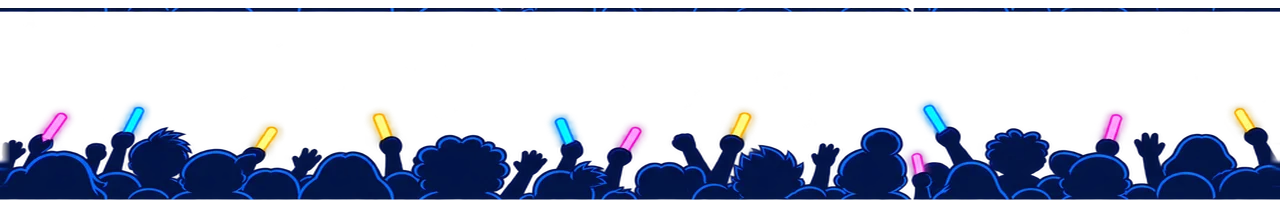
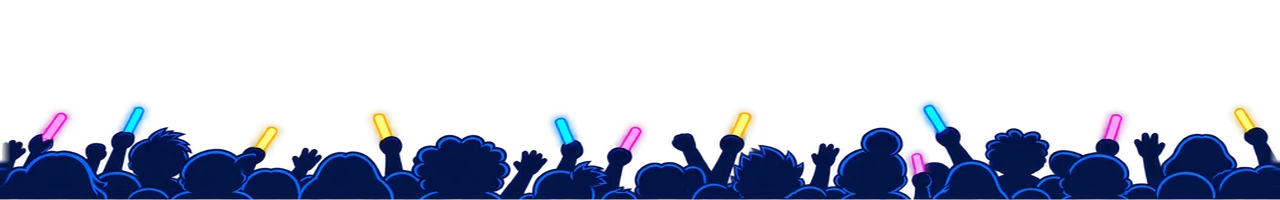
Neon Encore: ingen blinkende streg i publikum, DJ i halv størrelse, farvede projektører bag scenen

Changed region(s): [[0.0, 0.03, 1.0, 0.06]]

diff --git a/webapp/index.html b/webapp/index.html
@@ -19,10 +19,10 @@
     <meta name="apple-mobile-web-app-status-bar-style" content="black-translucent">
     <meta name="apple-mobile-web-app-title" content="Bert The Bird">
     <title>Bert The Bird – flyvespil og præcisionsverdener</title>
-    <link rel="manifest" href="manifest.webmanifest?v=worlds-relay-64">
+    <link rel="manifest" href="manifest.webmanifest?v=worlds-relay-65">
     <link rel="apple-touch-icon" href="icons/bert-192.png">
     <link rel="icon" type="image/png" sizes="192x192" href="icons/bert-192.png">
-    <link rel="stylesheet" href="style.css?v=worlds-relay-64">
+    <link rel="stylesheet" href="style.css?v=worlds-relay-65">
 </head>
 <body>
     <main id="game-shell" aria-label="Bert The Bird">
@@ -366,34 +366,34 @@
 
         <div id="app-status" class="app-status" role="status" aria-live="polite"></div>
     </main>
-    <script src="bert-i18n.js?v=worlds-relay-64"></script>
-    <script src="lang-en.js?v=worlds-relay-64"></script>
-    <script src="lang-nb.js?v=worlds-relay-64"></script>
-    <script src="lang-sv.js?v=worlds-relay-64"></script>
-    <script src="lang-de.js?v=worlds-relay-64"></script>
-    <script src="lang-es.js?v=worlds-relay-64"></script>
-    <script src="lang-fr.js?v=worlds-relay-64"></script>
-    <script src="lang-pt.js?v=worlds-relay-64"></script>
+    <script src="bert-i18n.js?v=worlds-relay-65"></script>
+    <script src="lang-en.js?v=worlds-relay-65"></script>
+    <script src="lang-nb.js?v=worlds-relay-65"></script>
+    <script src="lang-sv.js?v=worlds-relay-65"></script>
+    <script src="lang-de.js?v=worlds-relay-65"></script>
+    <script src="lang-es.js?v=worlds-relay-65"></script>
+    <script src="lang-fr.js?v=worlds-relay-65"></script>
+    <script src="lang-pt.js?v=worlds-relay-65"></script>
     <script>window.BertI18n.apply();</script>
-    <script src="app-shell.js?v=worlds-relay-64"></script>
-    <script src="unity-collision.js?v=worlds-relay-64"></script>
-    <script src="bert-physics.js?v=worlds-relay-64"></script>
-    <script src="bert-progression.js?v=worlds-relay-64"></script>
-    <script src="bert-tunnel.js?v=worlds-relay-64"></script>
-    <script src="bert-edm.js?v=worlds-relay-64"></script>
-    <script src="bert-bird-run.js?v=worlds-relay-64"></script>
-    <script src="bert-stormline.js?v=worlds-relay-64"></script>
-    <script src="bert-world-mastery.js?v=worlds-relay-64"></script>
-    <script src="bert-sky-relay.js?v=worlds-relay-64"></script>
-    <script src="bert-event-powerups.js?v=worlds-relay-64"></script>
-    <script src="bert-collectible-motion.js?v=worlds-relay-64"></script>
-    <script src="bert-haptics.js?v=worlds-relay-64"></script>
-    <script src="bert-hero-store.js?v=worlds-relay-64"></script>
-    <script src="bert-meta.js?v=worlds-relay-64"></script>
-    <script src="bert-social.js?v=worlds-relay-64"></script>
-    <script src="bert-focus-audio.js?v=worlds-relay-64"></script>
-    <script src="bert-star-audio.js?v=worlds-relay-64"></script>
-    <script src="bert-adventure.js?v=worlds-relay-64"></script>
-    <script src="unity-faithful.js?v=worlds-relay-64"></script>
+    <script src="app-shell.js?v=worlds-relay-65"></script>
+    <script src="unity-collision.js?v=worlds-relay-65"></script>
+    <script src="bert-physics.js?v=worlds-relay-65"></script>
+    <script src="bert-progression.js?v=worlds-relay-65"></script>
+    <script src="bert-tunnel.js?v=worlds-relay-65"></script>
+    <script src="bert-edm.js?v=worlds-relay-65"></script>
+    <script src="bert-bird-run.js?v=worlds-relay-65"></script>
+    <script src="bert-stormline.js?v=worlds-relay-65"></script>
+    <script src="bert-world-mastery.js?v=worlds-relay-65"></script>
+    <script src="bert-sky-relay.js?v=worlds-relay-65"></script>
+    <script src="bert-event-powerups.js?v=worlds-relay-65"></script>
+    <script src="bert-collectible-motion.js?v=worlds-relay-65"></script>
+    <script src="bert-haptics.js?v=worlds-relay-65"></script>
+    <script src="bert-hero-store.js?v=worlds-relay-65"></script>
+    <script src="bert-meta.js?v=worlds-relay-65"></script>
+    <script src="bert-social.js?v=worlds-relay-65"></script>
+    <script src="bert-focus-audio.js?v=worlds-relay-65"></script>
+    <script src="bert-star-audio.js?v=worlds-relay-65"></script>
+    <script src="bert-adventure.js?v=worlds-relay-65"></script>
+    <script src="unity-faithful.js?v=worlds-relay-65"></script>
 </body>
 </html>

diff --git a/webapp/service-worker.js b/webapp/service-worker.js
@@ -1,4 +1,4 @@
-const CACHE_VERSION = 'bert-the-bird-worlds-relay-64';
+const CACHE_VERSION = 'bert-the-bird-worlds-relay-65';
 
 const frames = (folder, prefix, count) => Array.from(
     { length: count },
@@ -29,36 +29,36 @@ const HAPPY_PIPE_ASSETS = HAPPY_PIPE_COLORS.flatMap((color) => [
 const APP_SHELL = [
     './',
     './index.html',
-    './style.css?v=worlds-relay-64',
-    './bert-i18n.js?v=worlds-relay-64',
-    './lang-en.js?v=worlds-relay-64',
-    './lang-nb.js?v=worlds-relay-64',
-    './lang-sv.js?v=worlds-relay-64',
-    './lang-de.js?v=worlds-relay-64',
-    './lang-es.js?v=worlds-relay-64',
-    './lang-fr.js?v=worlds-relay-64',
-    './lang-pt.js?v=worlds-relay-64',
-    './app-shell.js?v=worlds-relay-64',
-    './unity-collision.js?v=worlds-relay-64',
-    './bert-physics.js?v=worlds-relay-64',
-    './bert-progression.js?v=worlds-relay-64',
-    './bert-tunnel.js?v=worlds-relay-64',
-    './bert-edm.js?v=worlds-relay-64',
-    './bert-bird-run.js?v=worlds-relay-64',
-    './bert-stormline.js?v=worlds-relay-64',
-    './bert-world-mastery.js?v=worlds-relay-64',
-    './bert-sky-relay.js?v=worlds-relay-64',
-    './bert-adventure.js?v=worlds-relay-64',
-    './bert-event-powerups.js?v=worlds-relay-64',
-    './bert-collectible-motion.js?v=worlds-relay-64',
-    './bert-haptics.js?v=worlds-relay-64',
-    './bert-hero-store.js?v=worlds-relay-64',
-    './bert-meta.js?v=worlds-relay-64',
-    './bert-social.js?v=worlds-relay-64',
-    './bert-focus-audio.js?v=worlds-relay-64',
-    './bert-star-audio.js?v=worlds-relay-64',
-    './unity-faithful.js?v=worlds-relay-64',
-    './manifest.webmanifest?v=worlds-relay-64',
+    './style.css?v=worlds-relay-65',
+    './bert-i18n.js?v=worlds-relay-65',
+    './lang-en.js?v=worlds-relay-65',
+    './lang-nb.js?v=worlds-relay-65',
+    './lang-sv.js?v=worlds-relay-65',
+    './lang-de.js?v=worlds-relay-65',
+    './lang-es.js?v=worlds-relay-65',
+    './lang-fr.js?v=worlds-relay-65',
+    './lang-pt.js?v=worlds-relay-65',
+    './app-shell.js?v=worlds-relay-65',
+    './unity-collision.js?v=worlds-relay-65',
+    './bert-physics.js?v=worlds-relay-65',
+    './bert-progression.js?v=worlds-relay-65',
+    './bert-tunnel.js?v=worlds-relay-65',
+    './bert-edm.js?v=worlds-relay-65',
+    './bert-bird-run.js?v=worlds-relay-65',
+    './bert-stormline.js?v=worlds-relay-65',
+    './bert-world-mastery.js?v=worlds-relay-65',
+    './bert-sky-relay.js?v=worlds-relay-65',
+    './bert-adventure.js?v=worlds-relay-65',
+    './bert-event-powerups.js?v=worlds-relay-65',
+    './bert-collectible-motion.js?v=worlds-relay-65',
+    './bert-haptics.js?v=worlds-relay-65',
+    './bert-hero-store.js?v=worlds-relay-65',
+    './bert-meta.js?v=worlds-relay-65',
+    './bert-social.js?v=worlds-relay-65',
+    './bert-focus-audio.js?v=worlds-relay-65',
+    './bert-star-audio.js?v=worlds-relay-65',
+    './unity-faithful.js?v=worlds-relay-65',
+    './manifest.webmanifest?v=worlds-relay-65',
     './icons/bert-192.png',
     './icons/bert-512.png',
     './assets/unity/fonts/bert-display.woff2',

diff --git a/webapp/unity-faithful.js b/webapp/unity-faithful.js
@@ -16,7 +16,7 @@
     const BASE_WIDTH = 1280;
     const MAX_ASPECT = 21 / 9;
     const BASE_BIRD_X = 185;
-    const BUILD_VERSION = 'worlds-relay-64';
+    const BUILD_VERSION = 'worlds-relay-65';
     const FLAPPY_GRAVITY = 1750;
     const BIRD = { x: 185, width: 124, height: 113 };
     const FIXED_STEP = 1 / 60;
@@ -3729,6 +3729,25 @@
         }
         ctx.drawImage(assets.edmStage, 0, 0, VIEW.width, VIEW.height);
         if (assets.v2EdmStage?.naturalWidth) {
+            // Festival searchlights behind the stage: slow coloured sweeps that bring back
+            // the busy concert backdrop of the old design without covering play.
+            if (!prefersReducedMotion() && BertMeta.settingEnabled('lights')) {
+                ctx.save();
+                ctx.globalCompositeOperation = 'lighter';
+                [['rgba(255, 90, 210, .26)', 420, 0.7], ['rgba(90, 230, 255, .26)', 860, -0.6], ['rgba(255, 210, 90, .2)', 640, 0.45]].forEach(([color, baseX, speed], index) => {
+                    const angle = Math.sin(state.worldTime * speed + index * 2) * 0.55;
+                    ctx.save();
+                    ctx.translate(baseX, 640);
+                    ctx.rotate(angle);
+                    const beam = ctx.createLinearGradient(0, 0, 0, -620);
+                    beam.addColorStop(0, color);
+                    beam.addColorStop(1, 'rgba(0,0,0,0)');
+                    ctx.fillStyle = beam;
+                    ctx.beginPath(); ctx.moveTo(-18, 0); ctx.lineTo(18, 0); ctx.lineTo(120, -640); ctx.lineTo(-120, -640); ctx.closePath(); ctx.fill();
+                    ctx.restore();
+                });
+                ctx.restore();
+            }
             // Smaller and further back, so the stage sets the scene without crowding play.
             // The DJ stands behind the booth (booth top ≈ y 507 on screen): drawn first,
             // so the booth hides the lower body. Pose follows the beat; both wings up on the drop.
@@ -3738,7 +3757,8 @@
             if (dj?.naturalWidth) {
                 const bob = prefersReducedMotion() ? 0 : Math.abs(Math.sin(state.worldTime * Math.PI * 2.2)) * 5;
                 // Stage 720×225 standing on the crowd line (base ≈ y 705); booth top ≈ y 604.
-                ctx.drawImage(dj, 558, 480 - bob, 164, 164);
+                // DJ at half the previous size (feedback), still standing behind the booth.
+                ctx.drawImage(dj, 599, 550 - bob * 0.5, 82, 82);
             }
             ctx.drawImage(assets.v2EdmStage, 280, 480, 720, 225);
         } else {

diff --git a/webapp/app-shell.js b/webapp/app-shell.js
@@ -10,7 +10,7 @@
     const installGuideText = document.getElementById('install-guide-text');
     const closeInstallGuide = document.getElementById('close-install-guide');
     const statusToast = document.getElementById('app-status');
-    const ACTIVE_BUILD = 'worlds-relay-64';
+    const ACTIVE_BUILD = 'worlds-relay-65';
     const IS_QA = new URLSearchParams(window.location.search).has('qa');
     let deferredInstallPrompt = null;
     let toastTimer = 0;

diff --git a/tests/offline_resilience_acceptance.py b/tests/offline_resilience_acceptance.py
@@ -11,7 +11,7 @@ from playwright.async_api import async_playwright
 
 ROOT = Path(__file__).resolve().parents[1]
 OUTPUT = ROOT.parent / 'qa-offline-resilience'
-BUILD = 'worlds-relay-64'
+BUILD = 'worlds-relay-65'
 
 
 class GameHandler(SimpleHTTPRequestHandler):
@@ -62,11 +62,11 @@ async def browser_case(browser_type, base, width, height, server):
         await page.wait_for_function('window.BertApp?.offlineReady()', timeout=45000)
         assert await page.evaluate('navigator.serviceWorker.controller !== null')
         cache = await page.evaluate('''async () => {
-            const entries = await caches.open('bert-the-bird-worlds-relay-64');
+            const entries = await caches.open('bert-the-bird-worlds-relay-65');
             return {html: !!(await entries.match('./index.html')),
-                    game: !!(await entries.match('./unity-faithful.js?v=worlds-relay-64')),
-                    relay: !!(await entries.match('./bert-sky-relay.js?v=worlds-relay-64')),
-                    mastery: !!(await entries.match('./bert-world-mastery.js?v=worlds-relay-64')),
+                    game: !!(await entries.match('./unity-faithful.js?v=worlds-relay-65')),
+                    relay: !!(await entries.match('./bert-sky-relay.js?v=worlds-relay-65')),
+                    mastery: !!(await entries.match('./bert-world-mastery.js?v=worlds-relay-65')),
                     gate: !!(await entries.match('./assets/sky-relay/flight-gate-play.webp')),
                     front: !!(await entries.match('./assets/sky-relay/flight-gate-foreground-play.webp')),
                     bell: !!(await entries.match('./assets/sky-relay/wind-chime-target-play.webp'))};

diff --git a/tests/edm_crowd_bursts_acceptance.py b/tests/edm_crowd_bursts_acceptance.py
@@ -24,7 +24,7 @@ async def run_phone(browser, port, width, height):
     posts = []
     page.on('pageerror', lambda error: errors.append(str(error)))
     page.on('request', lambda request: posts.append(request.url) if request.method == 'POST' else None)
-    await page.goto(f'http://127.0.0.1:{port}/?qa=1&noclip=1&rev=worlds-relay-64', wait_until='networkidle')
+    await page.goto(f'http://127.0.0.1:{port}/?qa=1&noclip=1&rev=worlds-relay-65', wait_until='networkidle')
     await page.wait_for_function("document.querySelector('#loading').classList.contains('hidden')")
     await page.locator('#play-btn').click()
     await page.locator('#edm-event-btn').click()
@@ -49,7 +49,7 @@ async def run_phone(browser, port, width, height):
     balls = result['balls']
     shapes = result['shapes']
     view = result['view']
-    assert view['event'] and view['build'] == 'worlds-relay-64'
+    assert view['event'] and view['build'] == 'worlds-relay-65'
     assert len(balls) == 6 and len(shapes) == 6
     assert len({ball['motionAmplitude'] for ball in balls}) >= 4
     assert all(ball['baseY'] + ball['height'] == 670 for ball in balls)

diff --git a/tests/world_milestones_acceptance.py b/tests/world_milestones_acceptance.py
@@ -13,7 +13,7 @@ from pathlib import Path
 from playwright.async_api import async_playwright
 
 ROOT = Path(__file__).resolve().parents[1]
-OUTPUT = ROOT.parent / 'qa-world-milestones-worlds-relay-64'
+OUTPUT = ROOT.parent / 'qa-world-milestones-worlds-relay-65'
 BADGES = {10: 'PUBLIKUMSVØLGE', 11: 'FRI AF ROVFUGLEN', 12: 'STORMPILOT'}
 
 
@@ -33,7 +33,7 @@ async def check(browser, port, width, height, event_id):
     page.on('request', lambda req: posts.append(req.url) if req.method == 'POST' else None)
     page.on('pageerror', lambda err: errors.append(str(err)))
     try:
-        await page.goto(f'http://127.0.0.1:{port}/?qa=1&noclip=1&rev=worlds-relay-64',
+        await page.goto(f'http://127.0.0.1:{port}/?qa=1&noclip=1&rev=worlds-relay-65',
                         wait_until='networkidle')
         await page.wait_for_function('window.BertQA && window.BertWorldMastery && window.BertEDM && window.BertStormline')
         start = await page.evaluate('''async id => {

diff --git a/tests/edm_acceptance.py b/tests/edm_acceptance.py
@@ -26,7 +26,7 @@ async def run_phone(browser, port, width, height):
     page.on('console', lambda message: errors.append(f'console: {message.text}') if message.text.startswith('EDM error') else None)
     await page.add_init_script("window.addEventListener('error', e => console.error(`EDM error ${e.filename}:${e.lineno}:${e.colno} ${e.message} ${e.error?.stack || ''}`));")
     page.on('request', lambda request: posts.append(request.url) if request.method == 'POST' else None)
-    await page.goto(f'http://127.0.0.1:{port}/?qa=1&noclip=1&rev=worlds-relay-64', wait_until='networkidle')
+    await page.goto(f'http://127.0.0.1:{port}/?qa=1&noclip=1&rev=worlds-relay-65', wait_until='networkidle')
     await page.wait_for_function("document.querySelector('#loading').classList.contains('hidden')")
     await page.locator('#play-btn').click()
     button = page.locator('#edm-event-btn')

diff --git a/tests/jungle_intro_acceptance.py b/tests/jungle_intro_acceptance.py
@@ -32,7 +32,7 @@ async def main():
             page = await browser.new_page(viewport={'width': 852, 'height': 393}, device_scale_factor=2)
             errors = []
             page.on('pageerror', lambda error: errors.append(str(error)))
-            await page.goto(f'http://127.0.0.1:{port}/?qa=1&noclip=1&rev=worlds-relay-64', wait_until='networkidle')
+            await page.goto(f'http://127.0.0.1:{port}/?qa=1&noclip=1&rev=worlds-relay-65', wait_until='networkidle')
             await page.wait_for_function("document.querySelector('#loading').classList.contains('hidden')")
             await page.evaluate('async () => { await BertQA.startLevel(4, {seed: 1442}); BertQA.beginRun(); }')
             opening = await page.evaluate('BertQA.simulate(.05)')

diff --git a/tests/edm_progression_foreground_acceptance.py b/tests/edm_progression_foreground_acceptance.py
@@ -31,7 +31,7 @@ async def run_phone(browser, port, width, height, foreground_screenshots=False):
     page = await browser.new_page(viewport={'width': width, 'height': height}, device_scale_factor=2)
     errors = []
     page.on('pageerror', lambda error: errors.append(str(error)))
-    await page.goto(f'http://127.0.0.1:{port}/?qa=1&noclip=1&rev=worlds-relay-64', wait_until='networkidle')
+    await page.goto(f'http://127.0.0.1:{port}/?qa=1&noclip=1&rev=worlds-relay-65', wait_until='networkidle')
     await page.wait_for_function("document.querySelector('#loading').classList.contains('hidden')")
     await page.locator('#play-btn').click()
     await page.locator('#edm-event-btn').click()

diff --git a/tests/sky_relay_acceptance.py b/tests/sky_relay_acceptance.py
@@ -13,8 +13,8 @@ from pathlib import Path
 from playwright.async_api import async_playwright
 
 ROOT = Path(__file__).resolve().parents[1]
-OUTPUT = ROOT.parent / 'qa-sky-relay-worlds-relay-64'
-BUILD = 'worlds-relay-64'
+OUTPUT = ROOT.parent / 'qa-sky-relay-worlds-relay-65'
+BUILD = 'worlds-relay-65'
 
 
 def free_port():

diff --git a/tests/stormline_weather_acceptance.py b/tests/stormline_weather_acceptance.py
@@ -11,7 +11,7 @@ from playwright.async_api import async_playwright
 
 PROJECT = Path(__file__).resolve().parents[1]
 OUTPUT = PROJECT.parent / 'qa-stormline-weather'
-BUILD = 'worlds-relay-64'
+BUILD = 'worlds-relay-65'
 HAZARDS = ('storm-sail', 'wind-umbrella', 'wind-branch', 'wind-sign', 'wind-car')
 
 
